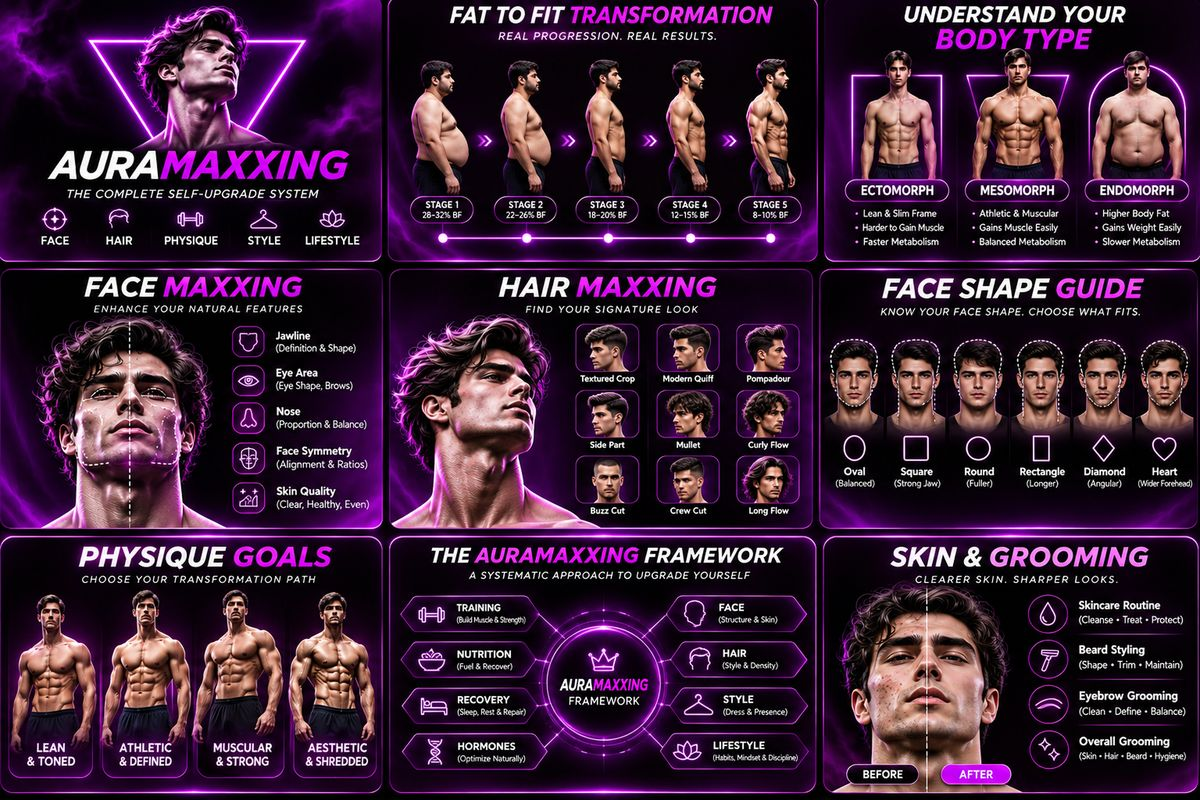
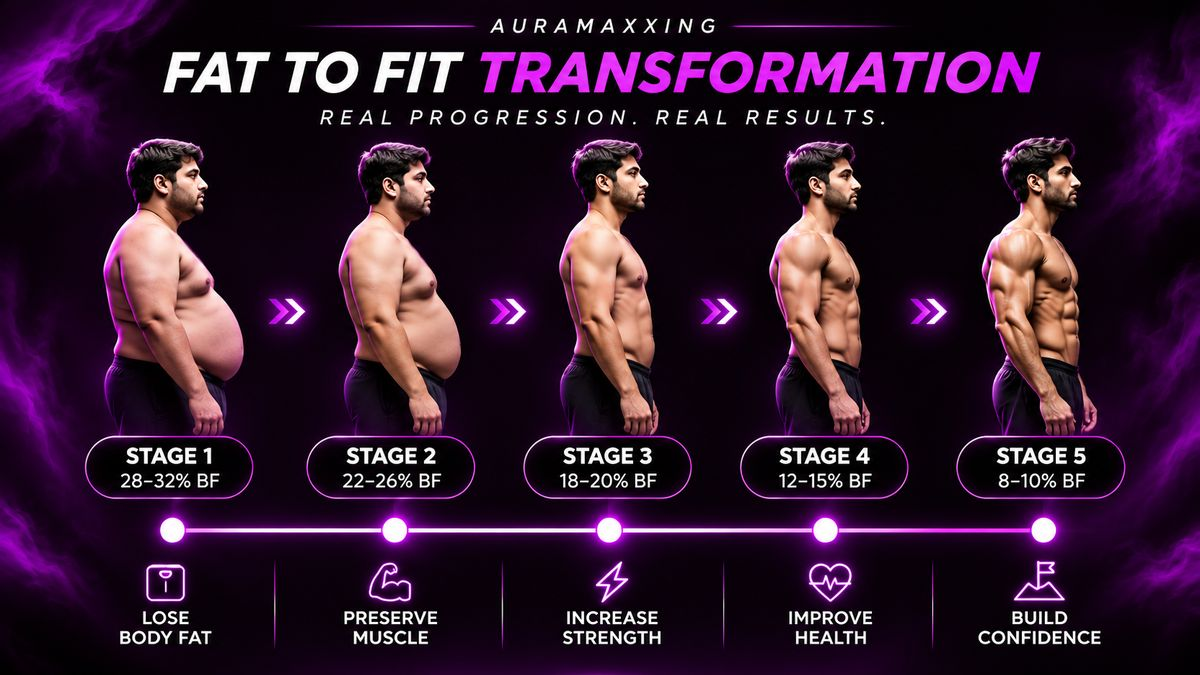
latest build

diff --git a/ebook-store/public/index.html b/ebook-store/public/index.html
@@ -48,22 +48,15 @@
       </div>
       <div class="figure">
         <img src="/hero.jpg" width="1000" height="714" alt="Illustration of a muscular man looking upward inside a neon purple triangle">
-        <img src="/transform.jpg" width="700" height="330" alt="Before and after body transformation" class="img-desktop" style="width:90%;margin:0.5rem auto 0;border-radius:12px;opacity:0.9;mix-blend-mode:screen;">
+
       </div>
     </div>
   </section>
 
   <section class="band">
     <div class="wrap">
-      <h2 class="reveal">The complete <span class="glow">system</span></h2>
-      <p class="section-intro">Face, hair, physique, skin, style and lifestyle — every area covered in one guide, with a framework you follow step by step.</p>
-      <div class="reveal" style="margin-top:1.5rem;">
-        <img src="/system.jpg" width="1600" height="1066" alt="The AuraMaxxing framework" class="img-desktop" style="width:100%;border-radius:16px;border:1px solid var(--line);">
-        <div class="img-mobile-stack">
-          <img src="/system-row1.jpg" width="1200" height="271" alt="AuraMaxxing: fat to fit transformation stages and body types" loading="lazy">
-          <img src="/system-row2.jpg" width="1200" height="264" alt="Face maxxing, hair maxxing with 9 styles, and face shape guide" loading="lazy">
-          <img src="/system-row3.jpg" width="1200" height="264" alt="Physique goals, the AuraMaxxing framework, and skin and grooming" loading="lazy">
-        </div>
+      <div class="reveal">
+        <img src="/img-transformation.jpg" width="1400" height="933" alt="Fat to fit transformation: 5 stages from 28-32% body fat to 8-10% body fat, with training milestones" style="width:100%;border-radius:16px;" loading="lazy">
       </div>
     </div>
   </section>
@@ -119,14 +112,14 @@
           <a class="btn" href="#buy" data-choose="l3">Get Level 3</a>
         </article>
       </div>
-      <div class="reveal" style="margin-top:2.5rem;">
-        <h3 style="font-weight:800;font-style:italic;text-transform:uppercase;font-size:1.2rem;margin:0 0 1rem;color:var(--purple-soft);">Preview what's inside</h3>
-        <img src="/preview.jpg" width="1400" height="933" alt="Inside the guide" class="img-desktop" style="width:100%;border-radius:16px;border:1px solid var(--line);">
-        <div class="img-mobile-stack">
-          <img src="/preview-row1.jpg" width="1200" height="415" alt="Transformation journey, body types, face shape guide and hair style guide" loading="lazy">
-          <img src="/preview-row2.jpg" width="1200" height="384" alt="Body transformation plan, aesthetic focus areas, and fat to fit timeline" loading="lazy">
-        </div>
+
+
+      <div style="margin-top:2.5rem;display:flex;flex-direction:column;gap:1rem;" class="reveal">
+        <h3 style="font-weight:800;font-style:italic;text-transform:uppercase;font-size:1.2rem;margin:0;color:var(--purple-soft);">Preview what's inside</h3>
+        <img src="/img-faceshape.jpg" width="1400" height="933" alt="Face shape guide: oval, square, round, rectangle, diamond and heart shapes with best hairstyles for each" style="width:100%;border-radius:16px;" loading="lazy">
+        <img src="/img-hairstyle.jpg" width="1400" height="933" alt="Men's hair style guide: 12 styles from textured crop to man bun, with hair types and face shape matching" style="width:100%;border-radius:16px;" loading="lazy">
       </div>
+
       <p class="levels-note">Not sure? Level 2 is the one that covers everything, from skin to style, at your own pace.</p>
     </div>
   </section>
@@ -134,9 +127,7 @@
   <section>
     <div class="wrap" style="text-align:center;">
       <p class="section-intro reveal" style="margin-inline:auto;">No drugs. No surgery. No extremes. Every level is <strong>softmaxxing only</strong> — safe methods that actually work.</p>
-      <div class="reveal" style="margin-top:1.25rem;">
-        <img src="/pillars.jpg" width="1400" height="112" alt="The six pillars: training, nutrition, recovery, hormones optimized naturally, grooming, and style" style="width:100%;max-width:900px;border-radius:12px;">
-      </div>
+
     </div>
   </section>
 

diff --git a/ebook-store/public/styles.css b/ebook-store/public/styles.css
@@ -345,17 +345,3 @@ input:focus { border-color: var(--purple); }
   .btn::after { display: none; }
   .level:hover, .level.featured:hover, .chapters li:hover { transform: none; }
 }
-
-/* ---------- Mobile-friendly image rows ---------- */
-.img-desktop { display: block; }
-.img-mobile-stack { display: none; }
-
-@media (max-width: 860px) {
-  .img-desktop { display: none; }
-  .img-mobile-stack { display: flex; flex-direction: column; gap: 0.6rem; }
-  .img-mobile-stack img {
-    width: 100%;
-    border-radius: 12px;
-    border: 1px solid var(--line);
-  }
-}
